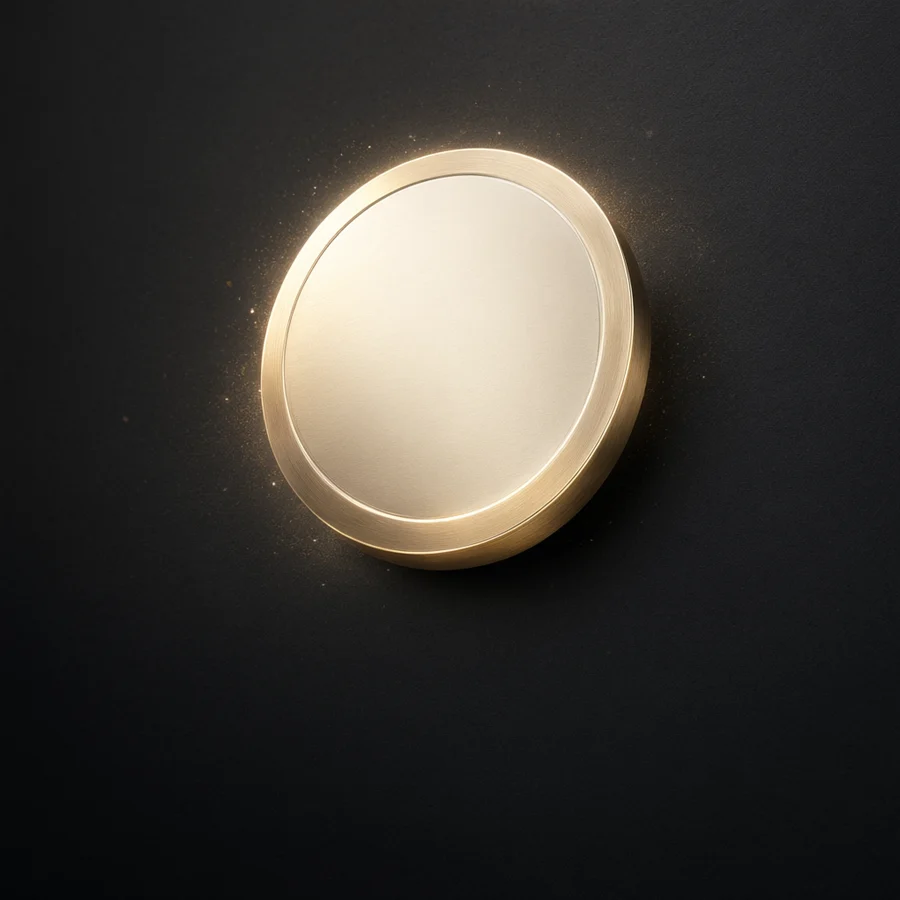
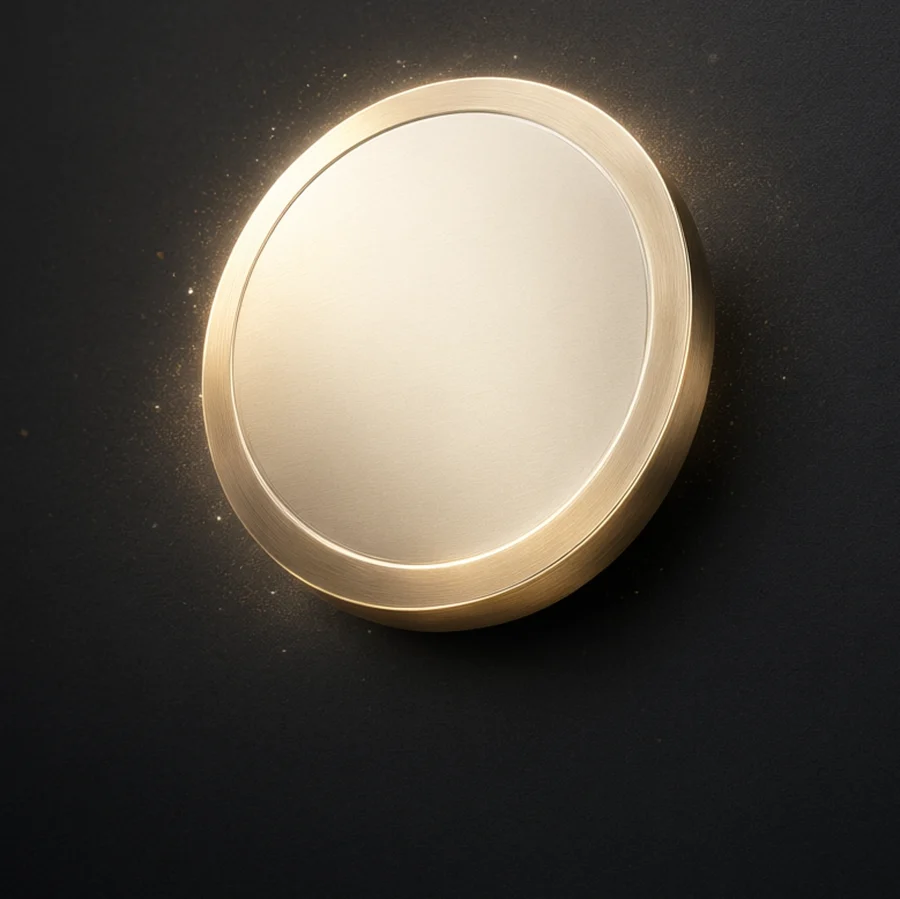
fix: 金标行观感——徽章裁紧（金色占满圆形）、副标题一行、去掉无意义的「联盟」尾标；官网徽章图同步换裁紧版

Changed region(s): [[0.1556, 0.0311, 0.84, 0.7164], [0.6844, 0.6541, 0.7156, 0.6852]]

diff --git a/aurora-lsp/app/src/main/kotlin/com/aurora/lsp/MainActivity.kt b/aurora-lsp/app/src/main/kotlin/com/aurora/lsp/MainActivity.kt
@@ -1555,7 +1555,7 @@ private fun SettingsPage(
                 val ctx = androidx.compose.ui.platform.LocalContext.current
                 AuroraRow(
                     title = "已完成金标联盟适配",
-                    summary = "内存、界面规范与系统行为检测项均通过",
+                    summary = "内存、界面与系统行为均通过",
                     leading = {
                         androidx.compose.foundation.Image(
                             androidx.compose.ui.res.painterResource(com.aurora.audio.lsp.R.drawable.badge_gold),
@@ -1563,7 +1563,7 @@ private fun SettingsPage(
                             modifier = Modifier.size(34.dp).clip(CircleShape)
                         )
                     },
-                    trailing = { ValueText("联盟") },
+
                     onClick = {
                         runCatching {
                             ctx.startActivity(
